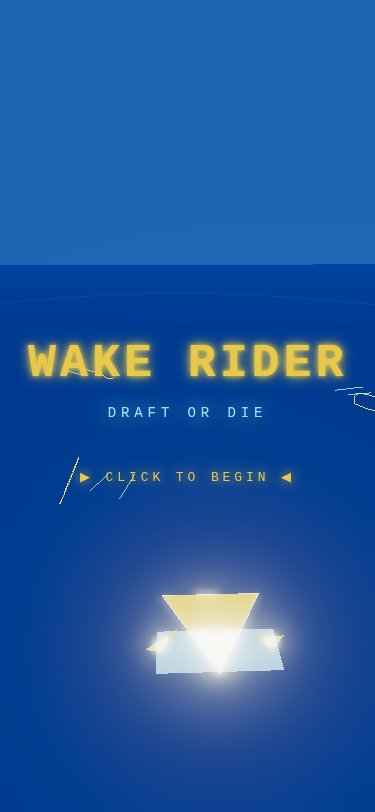
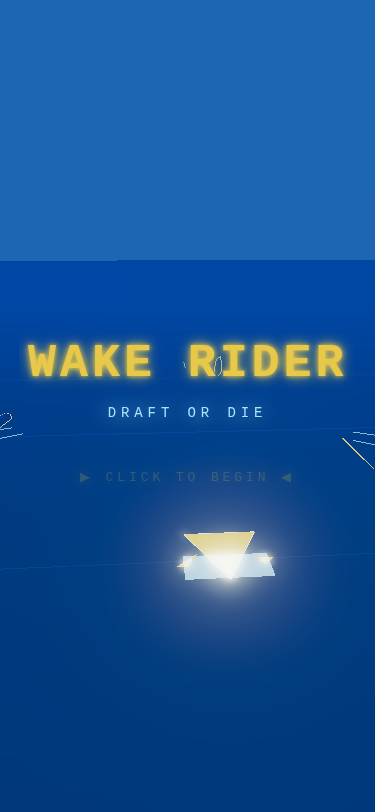
Round 15 wake-rider iteration 2: fog fix + speed floor indicator

diff --git a/index.html b/index.html
@@ -129,7 +129,7 @@ renderer.outputColorSpace = THREE.SRGBColorSpace;
 
 const scene = new THREE.Scene();
 scene.background = new THREE.Color(COL_BG);
-scene.fog = new THREE.FogExp2(0x1a4a93, 0.025);
+scene.fog = new THREE.FogExp2(0x2558A8, 0.012);
 
 const camera = new THREE.PerspectiveCamera(75, window.innerWidth / window.innerHeight, 0.1, 2000);
 
@@ -654,7 +654,7 @@ function drawHUD() {
   const fillH = bh * speedFrac;
   hud.fillStyle = player.speed < floorNow + 2.5 ? '#FF4D1C' : '#E8C84A';
   hud.fillRect(bx, by+bh-fillH, bw, fillH);
-  const floorY = by + bh*(1-floorFrac);
+  const floorY = by + bh * (1 - Math.max(0.04, floorFrac));
   hud.strokeStyle='#FF4D1C'; hud.lineWidth=2;
   hud.beginPath(); hud.moveTo(bx-4,floorY); hud.lineTo(bx+bw+4,floorY); hud.stroke();
   hud.fillStyle='#E8C84A'; hud.font=`bold ${Math.round(h*0.022)}px 'Courier New',monospace`;
